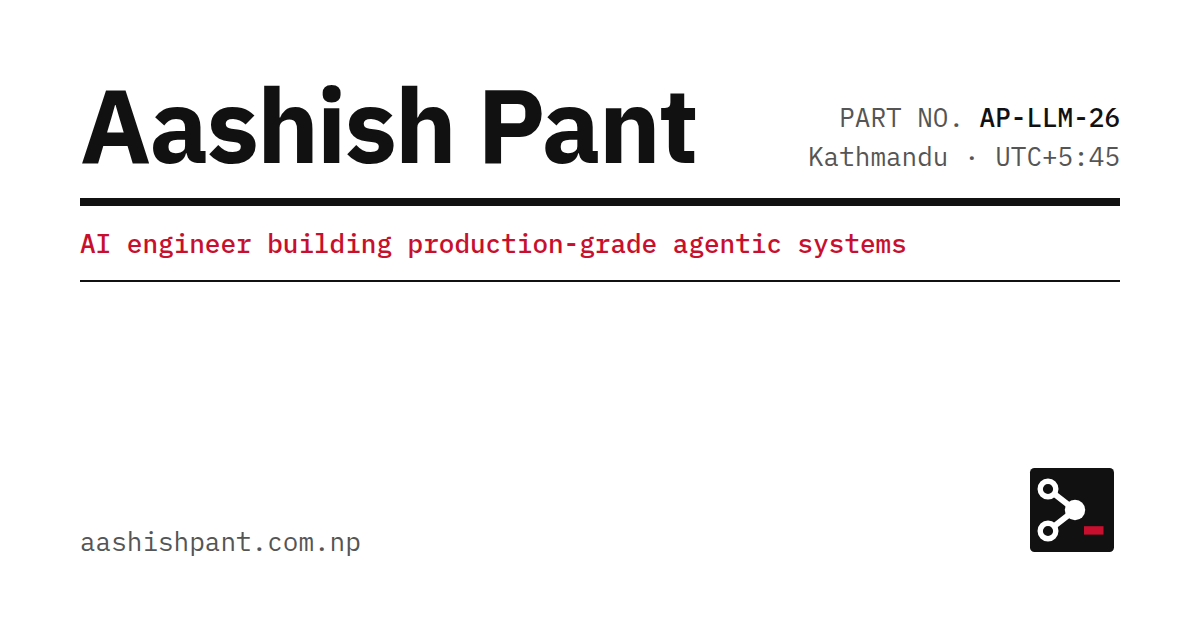
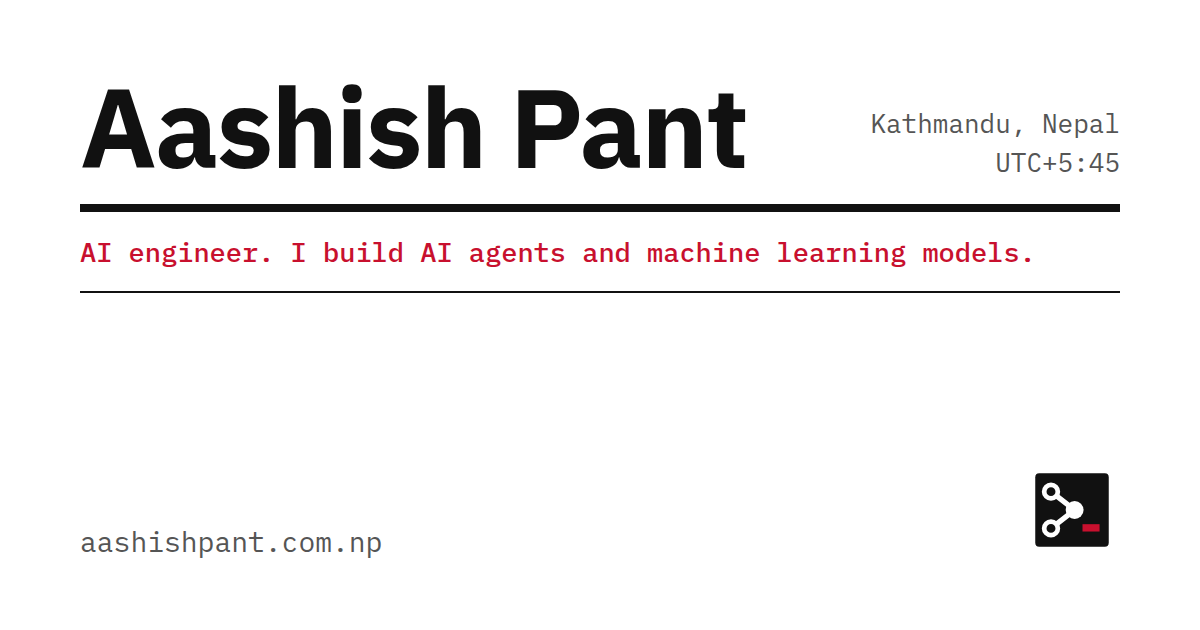
Rewrite career page in plain language, matching the updated CV

diff --git a/index.html b/index.html
@@ -3,8 +3,8 @@
 <head>
 <meta charset="UTF-8">
 <meta name="viewport" content="width=device-width,initial-scale=1">
-<title>Aashish Pant | AI Engineer, Agentic Systems | Kathmandu</title>
-<meta name="description" content="Aashish Pant is an AI engineer in Kathmandu building production-grade agentic systems: research agents, multi-agent orchestration and agent evaluation. Open to AI engineering roles.">
+<title>Aashish Pant | AI Engineer | Kathmandu</title>
+<meta name="description" content="Aashish Pant is an AI engineer in Kathmandu. He builds AI agents that research companies, and machine learning models for stock trading. Open to AI engineering roles.">
 <link rel="canonical" href="https://aashishpant.com.np/">
 <meta name="author" content="Aashish Pant">
 <meta name="theme-color" content="#ffffff" media="(prefers-color-scheme: light)">
@@ -12,12 +12,12 @@
 <meta property="og:type" content="profile">
 <meta property="og:site_name" content="Aashish Pant">
 <meta property="og:title" content="Aashish Pant, AI engineer">
-<meta property="og:description" content="AI engineer building production-grade agentic systems. Kathmandu, open to remote or on-site roles.">
+<meta property="og:description" content="AI engineer who builds AI agents and machine learning models. Kathmandu, open to remote or on-site roles.">
 <meta property="og:url" content="https://aashishpant.com.np/">
 <meta property="og:image" content="https://aashishpant.com.np/assets/img/og.png">
 <meta property="og:image:width" content="1200">
 <meta property="og:image:height" content="630">
-<meta property="og:image:alt" content="Aashish Pant, AI engineer building production-grade agentic systems">
+<meta property="og:image:alt" content="Aashish Pant, AI engineer who builds AI agents and machine learning models">
 <meta property="profile:first_name" content="Aashish">
 <meta property="profile:last_name" content="Pant">
 <meta name="twitter:card" content="summary_large_image">
@@ -34,7 +34,7 @@
       "@id": "https://aashishpant.com.np/#page",
       "url": "https://aashishpant.com.np/",
       "name": "Aashish Pant, AI engineer",
-      "dateModified": "2026-09-27",
+      "dateModified": "2026-10-05",
       "mainEntity": {"@id": "https://aashishpant.com.np/#person"}
     },
     {
@@ -43,12 +43,12 @@
       "name": "Aashish Pant",
       "url": "https://aashishpant.com.np/",
       "jobTitle": "AI Engineer",
-      "description": "AI engineer building production-grade agentic systems.",
+      "description": "AI engineer who builds AI agents and machine learning models.",
       "email": "mailto:aashishpnt@gmail.com",
       "address": {"@type": "PostalAddress", "addressLocality": "Kathmandu", "addressCountry": "NP"},
       "worksFor": {"@type": "Organization", "name": "DevDash Labs", "url": "https://devdashlabs.com"},
       "alumniOf": {"@type": "CollegeOrUniversity", "name": "Institute of Engineering, Thapathali Campus, Tribhuvan University"},
-      "knowsAbout": ["AI agents", "Multi-agent systems", "Large language models", "Agent evaluation", "Retrieval-augmented generation", "Machine learning", "AI automation", "Finance"],
+      "knowsAbout": ["AI agents", "Large language models", "Machine learning", "Evaluating AI agents", "Machine learning for finance"],
       "sameAs": ["https://github.com/aashishpnt", "https://www.linkedin.com/in/aashish-pant-96b305186/"]
     }
   ]
@@ -119,78 +119,80 @@ footer{margin-top:2.5rem;border-top:3px solid var(--rule);padding-top:.5rem;disp
 <header>
   <div class="top">
     <h1>Aashish Pant</h1>
-    <div class="pn">PART NO. <b>AP-LLM-26</b><br>Kathmandu, Nepal · UTC+5:45</div>
+    <div class="pn">Kathmandu, Nepal · UTC+5:45</div>
   </div>
   <div class="tagline">
-    <span>AI engineer building production-grade agentic systems</span>
-    <span>STATUS: AVAILABLE</span>
+    <span>AI engineer. I build AI agents and machine learning models that people use every day.</span>
+    <span>OPEN TO NEW ROLES</span>
   </div>
 </header>
 
 <section>
-  <h2><i>1</i>Operating conditions</h2>
+  <h2><i>1</i>About</h2>
   <table class="ops">
-    <tr><th>Parameter</th><th>Value</th></tr>
+    <tr><th>Item</th><th>Detail</th></tr>
     <tr><td>Role</td><td>AI engineer</td></tr>
-    <tr><td>Domains</td><td>LLMs, AI agents, finance, AI automation across domains</td></tr>
+    <tr><td>Work on</td><td>AI agents, large language models (LLMs), machine learning for finance</td></tr>
     <tr><td>Location</td><td>Kathmandu, Nepal · UTC+5:45</td></tr>
-    <tr><td>Mode</td><td>Remote or on-site</td></tr>
-    <tr><td>Currently</td><td>DevDash Labs</td></tr>
-    <tr><td>Toolchain</td><td class="m">OpenAI Agents SDK, LangGraph, LangSmith, promptfoo, PyTorch, XGBoost, CatBoost, FastAPI, Django, PostgreSQL, Docker, Terraform, AWS, GCP</td></tr>
+    <tr><td>Work mode</td><td>Remote or on-site</td></tr>
+    <tr><td>Currently</td><td>DevDash Labs, a small AI startup</td></tr>
+    <tr><td>Tools</td><td class="m">Python, OpenAI Agents SDK, LangGraph, LangSmith, PyTorch, XGBoost, CatBoost, FastAPI, Django, PostgreSQL, Docker, AWS, GCP</td></tr>
   </table>
 </section>
 
 <section>
-  <h2><i>2</i>Specifications</h2>
+  <h2><i>2</i>Key numbers</h2>
   <table class="spec">
-    <tr><th>Parameter</th><th>Conditions</th><th style="text-align:right">Value</th></tr>
-    <tr><td>Research brief cost, reduction</td><td class="m">tested workloads, A/B verified</td><td class="num">&gt;50%</td></tr>
-    <tr><td>Agent pipeline latency, reduction</td><td class="m">sequential → parallel</td><td class="num">~10×</td></tr>
-    <tr><td>Shipping production software</td><td class="m">since mid 2023</td><td class="num">3 yr</td></tr>
-    <tr><td>Fusemachines AI Fellowship</td><td class="m">national applicant pool</td><td class="num">top 3%</td></tr>
+    <tr><th>What</th><th>How</th><th style="text-align:right">Number</th></tr>
+    <tr><td>Cost of each company research report, cut</td><td class="m">measured with A/B tests</td><td class="num">&gt;50%</td></tr>
+    <tr><td>Time for a full trading analysis</td><td class="m">agents run in parallel</td><td class="num">&lt;80 s</td></tr>
+    <tr><td>Signals built from stock and options data</td><td class="m">for each stock, during the day</td><td class="num">400+</td></tr>
+    <tr><td>Building software that people use</td><td class="m">since mid 2023</td><td class="num">3 yr</td></tr>
+    <tr><td>Fusemachines AI Fellowship</td><td class="m">selected from national applicants</td><td class="num">top 3%</td></tr>
   </table>
 </section>
 
 <section>
-  <h2><i>3</i>Typical applications</h2>
+  <h2><i>3</i>Selected work</h2>
   <table class="apps">
-    <tr><th>Application</th><th>Where</th><th>Result</th></tr>
-    <tr><td>Identify: research agent that maps a whole market</td><td class="m"><a href="https://alkemy.devdashlabs.com">Alkemy</a></td><td>600+ companies in a domain found in a single sweep</td></tr>
-    <tr><td>Key account intelligence agent</td><td class="m"><a href="https://alkemy.devdashlabs.com">Alkemy</a></td><td>Pre-meeting briefs, open issues and attendee prep for each account</td></tr>
-    <tr><td>Evaluation suite for a multi-agent platform</td><td class="m"><a href="https://alkemy.devdashlabs.com">Alkemy</a></td><td>Caught a tool reporting success on fetches that were refused</td></tr>
-    <tr><td>Context and cost redesign</td><td class="m"><a href="https://alkemy.devdashlabs.com">Alkemy</a></td><td>Cost per brief more than halved</td></tr>
-    <tr><td>TradePilotAI: parallel agents that propose options trades</td><td class="m">DevDash</td><td>~10× faster than the sequential CrewAI version</td></tr>
-    <tr><td>TradePilotAI: multi-model prediction pipeline</td><td class="m">DevDash</td><td>Per-session XGBoost and CatBoost models, embargoed validation</td></tr>
-    <tr><td>Natural language to MongoDB query generator on T5</td><td class="m">Research</td><td>Schema-aware T5, trained on a self-checked synthetic corpus, beat a schema-agnostic baseline on complex operators</td></tr>
-    <tr><td>IoT crop recommendation: ESP8266 sensor network and an SVM</td><td class="m"><a href="https://github.com/aashishpnt/IoT-Device-for-Crop-Recommendation-using-AI">IOE</a></td><td>Live soil and field readings in, a crop recommendation out, served over FastAPI</td></tr>
-    <tr><td>Multi-tenant gift certificate platform</td><td class="m"><a href="https://giftcards.atrusta.com">Atrusta</a></td><td>Built end to end, Stripe via webhooks</td></tr>
-    <tr><td>Booking assistant for a skincare clinic</td><td class="m">Atrusta</td><td>Won't invent services or prices</td></tr>
+    <tr><th>What I built</th><th>Where</th><th>What it does</th></tr>
+    <tr><td>Key Account Intelligence agent (designed and built its core)</td><td class="m"><a href="https://alkemy.devdashlabs.com">Alkemy</a></td><td>Researches a client's most important customers, finds who can introduce them, tracks progress and keeps the news up to date</td></tr>
+    <tr><td>Introductions agent</td><td class="m"><a href="https://alkemy.devdashlabs.com">Alkemy</a></td><td>Works out who knows whom from shared employers and schools, and ranks who can make the best introduction</td></tr>
+    <tr><td>Lead-finding agent</td><td class="m"><a href="https://alkemy.devdashlabs.com">Alkemy</a></td><td>Searches the web for companies that match a client's ideal customer; found 600+ in one search</td></tr>
+    <tr><td>Cost reduction</td><td class="m"><a href="https://alkemy.devdashlabs.com">Alkemy</a></td><td>Cut the cost of each report by more than half by giving each agent only what it needs and testing a cheaper model</td></tr>
+    <tr><td>Quality checks</td><td class="m"><a href="https://alkemy.devdashlabs.com">Alkemy</a></td><td>Check every claim in a report against its source, and every agent step against its instructions</td></tr>
+    <tr><td>TradePilotAI prediction models</td><td class="m">DevDash</td><td>Predict a stock's high, low and price swings for the day from 400+ signals, tested only on later dates so results are honest</td></tr>
+    <tr><td>TradePilotAI trade-check agents</td><td class="m">DevDash</td><td>Check news, earnings, insider trades and the economy, and can stop a trade; a full run takes under 80 seconds</td></tr>
+    <tr><td>Plain English to database queries</td><td class="m">Research</td><td>A T5 model that also reads the database layout; it beat a model without that on hard MongoDB queries</td></tr>
+    <tr><td>Crop recommendation from field sensors</td><td class="m"><a href="https://github.com/aashishpnt/IoT-Device-for-Crop-Recommendation-using-AI">IOE</a></td><td>Wireless sensors read the soil; a machine learning model suggests what to plant</td></tr>
+    <tr><td>Gift card platform for many businesses</td><td class="m"><a href="https://giftcards.atrusta.com">Atrusta</a></td><td>Built end to end, with online payments through Stripe</td></tr>
+    <tr><td>Booking assistant for a skincare clinic</td><td class="m">Atrusta</td><td>Answers only from the clinic's own information, so it won't make up services or prices</td></tr>
   </table>
 </section>
 
 <section>
-  <h2><i>4</i>Revision history</h2>
+  <h2><i>4</i>Experience</h2>
   <table>
-    <tr><th>Rev</th><th>Date</th><th>Change</th></tr>
-    <tr><td class="m">D</td><td class="m">Apr 2024 – now</td><td>DevDash Labs, Member of Technical Staff, Applied LLM Systems</td></tr>
-    <tr><td class="m">C</td><td class="m">2023 – 2024</td><td>Atrusta, Product Engineer<small>Part-time since</small></td></tr>
-    <tr><td class="m">B</td><td class="m">2023</td><td>Fusemachines AI Fellow, ML/AI research track</td></tr>
-    <tr><td class="m">A</td><td class="m">2019 – 2024</td><td>BE, Electronics, Communication and Information Engineering<small>IOE Thapathali, Tribhuvan University. First Division.</small></td></tr>
+    <tr><th>Dates</th><th>Role</th></tr>
+    <tr><td class="m">Apr 2024 – now</td><td>DevDash Labs, Member of Technical Staff, Applied LLM Systems</td></tr>
+    <tr><td class="m">2023 – 2024</td><td>Atrusta, Product Engineer<small>Part-time since</small></td></tr>
+    <tr><td class="m">2023</td><td>Fusemachines AI Fellow, ML/AI research track</td></tr>
+    <tr><td class="m">2019 – 2024</td><td>Bachelor of Engineering in Electronics, Communication and Information Engineering<small>Thapathali Campus, Institute of Engineering, Tribhuvan University. First Division.</small></td></tr>
   </table>
 </section>
 
 <section>
-  <h2><i>5</i>Ordering information</h2>
+  <h2><i>5</i>Contact</h2>
   <div class="order">
     <a href="mailto:aashishpnt@gmail.com"><b>EMAIL</b>aashishpnt@gmail.com</a>
     <a href="https://github.com/aashishpnt"><b>GITHUB</b>aashishpnt</a>
-    <a href="https://www.linkedin.com/in/aashish-pant-96b305186/"><b>LINKEDIN</b>aashish-pant-96b305186</a>
+    <a href="https://www.linkedin.com/in/aashish-pant-96b305186/"><b>LINKEDIN</b>Aashish Pant</a>
   </div>
 </section>
 
 <footer>
-  <span>Employer code is private. Happy to walk through any of it. For agents: <a href="/llms.txt">llms.txt</a> · <a href="/resume.json">resume.json</a></span>
-  <span>Rev. 2026-09 · Page 1 of 1</span>
+  <span>Employer code is private. Happy to walk through any of it. For AI tools: <a href="/llms.txt">llms.txt</a> · <a href="/resume.json">resume.json</a></span>
+  <span>Updated October 2026</span>
 </footer>
 
 </main>
